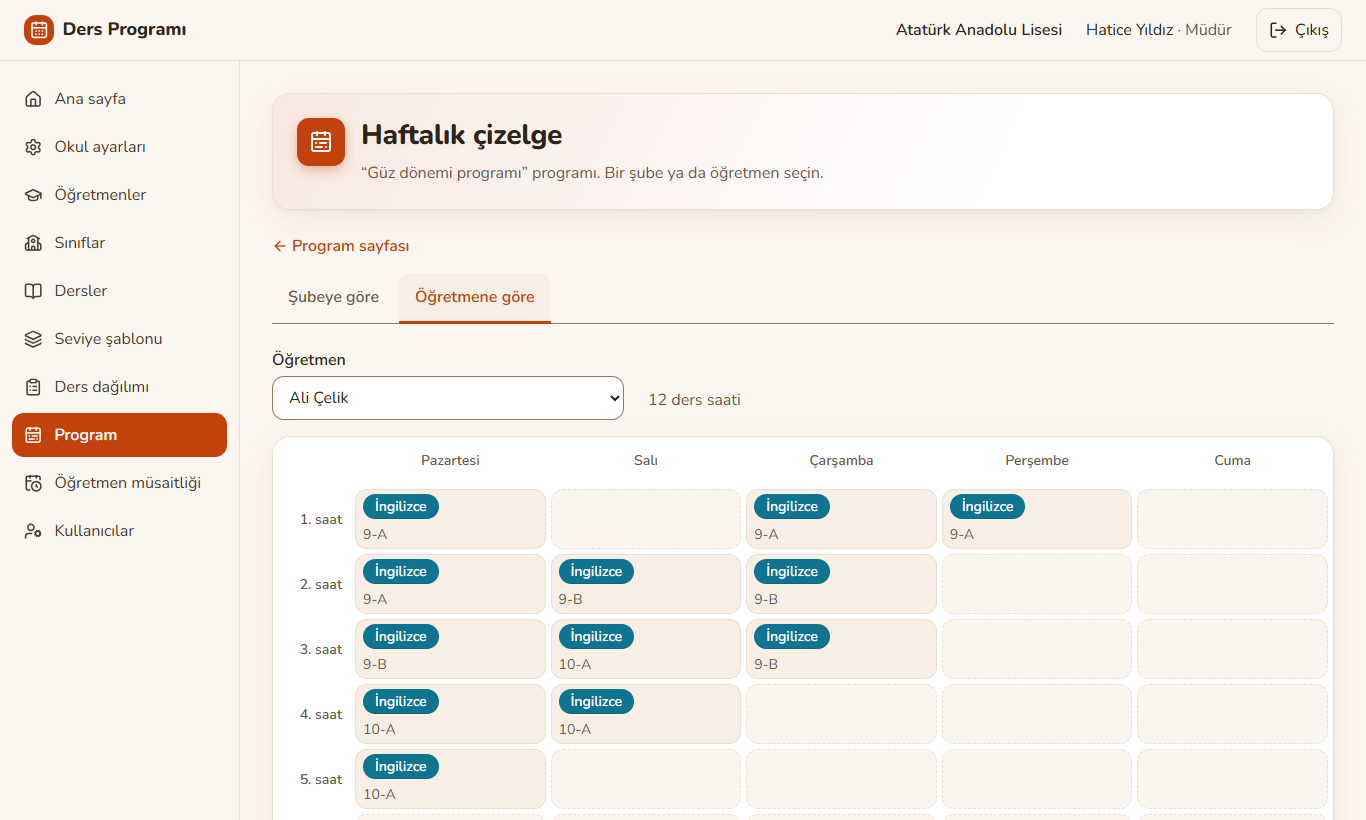
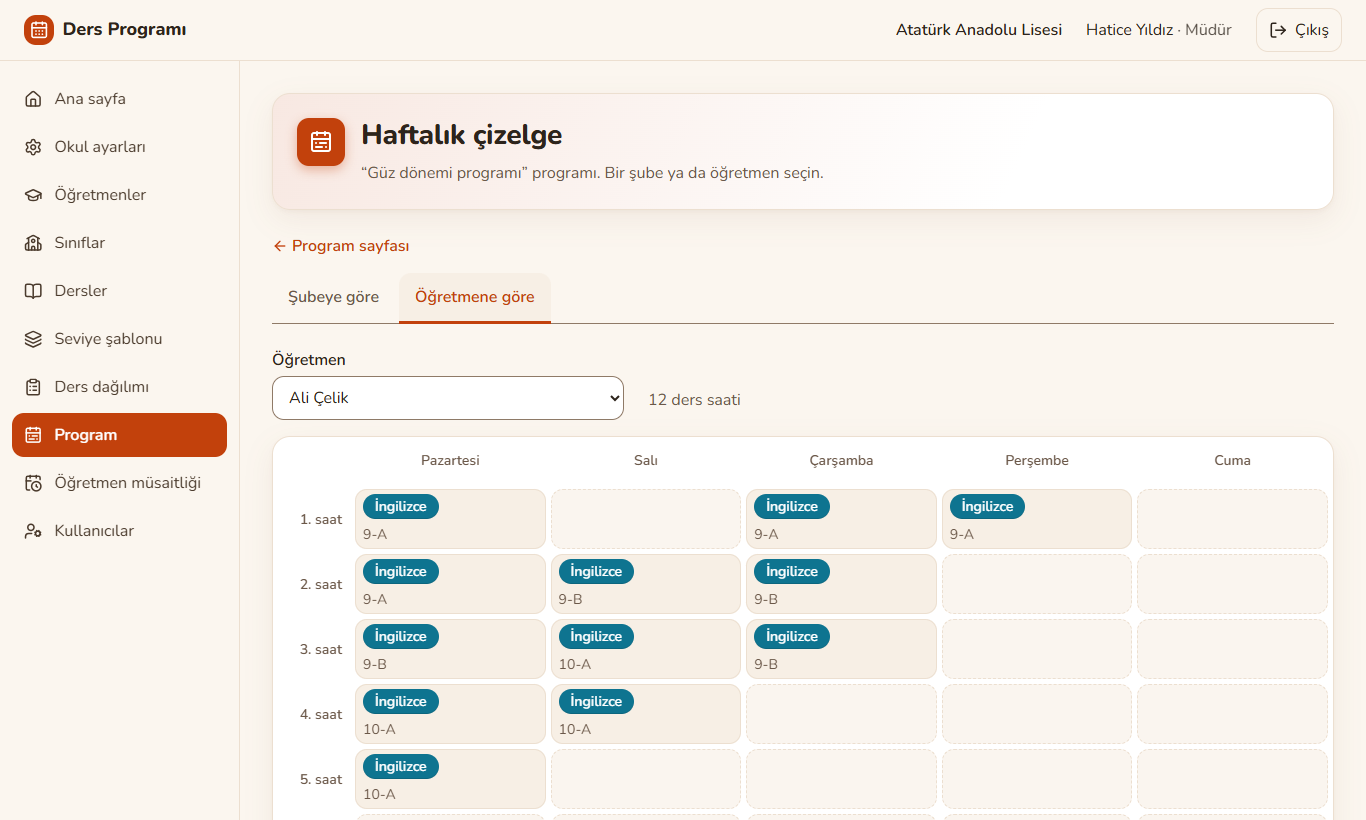
D3: sol menü masaüstünde sayfa kaydırılınca görünümde kalır (sticky)

diff --git a/web/src/cerceve/Cerceve.module.css b/web/src/cerceve/Cerceve.module.css
@@ -1,5 +1,6 @@
 /* Masaüstü: solda menü, üstte ince çubuk. Dar ekran (< 48rem): menü düğmeyle açılır. */
 .cerceve {
+  --ust-yuksekligi: 3.75rem;
   display: grid;
   /* minmax(0, 1fr): 1fr'nin alt sınırı içeriktir; geniş bir tablo içerik sütununu ve sayfayı taşırırdı. */
   grid-template-columns: var(--menu-genisligi) minmax(0, 1fr);
@@ -29,7 +30,7 @@
   align-items: center;
   gap: var(--bosluk-3);
   padding: var(--bosluk-2) var(--bosluk-5);
-  min-height: 3.75rem;
+  min-height: var(--ust-yuksekligi);
   background: var(--renk-ust-zemin);
   color: var(--renk-ust-metin);
   border-bottom: 1px solid var(--renk-kenar);
@@ -130,6 +131,12 @@
   display: flex;
   flex-direction: column;
   gap: var(--bosluk-1);
+  /* Masaüstünde sayfa kaydırılınca menü görünümde kalır. Menü sütunu (zemini, kenarı) sayfa boyu
+     uzar; yapışan yalnızca liste. Üst çubuğun altında durur; ekrandan uzunsa kendi içinde kayar. */
+  position: sticky;
+  top: calc(var(--ust-yuksekligi) + var(--bosluk-4));
+  max-height: calc(100vh - var(--ust-yuksekligi) - 2 * var(--bosluk-4));
+  overflow-y: auto;
 }
 
 .baglanti {
@@ -199,6 +206,10 @@
   }
   .menu.acik {
     display: block;
+  }
+  .menu ul {
+    position: static;
+    max-height: none;
   }
   .icerik {
     padding: var(--bosluk-4) var(--bosluk-4) var(--bosluk-6);

diff --git a/docs/arayuz-plani.md b/docs/arayuz-plani.md
@@ -326,8 +326,8 @@ Uygulama sırası (kullanıcı kararı; her alt adımın sonunda kullanıcıya s
 | K1 | Kapsam temeli (öğretmen kapsamının ders ve şube kapsamıyla çakışmaması kodda zorlanır) | Bitti |
 | D1 | Program sayfasındaki ön kontrol üretimdekiyle aynı (özel ayarlar dahil); hata varsa düğme pasif | Bitti: `GET /on-kontrol` worker'ın girdisi ve `cozucu.on_kontrol` ile; engeller ondan; test: özet temizken özel ayar hatası iki yerde aynı. K1 deneme özel ayarları geliştirme veritabanından silindi |
 | D2 | Çizelge hücrelerinde dar alanda kısa ders adı ve kısaltılmış öğretmen adı | Bitti: `useDarAlan` adın doğal genişliğini ölçer (ResizeObserver), sığmazsa kısa biçim ("TDE", "Z. Demir"); tam ad `title` ve ekran okuyucuda. Ekran: docs/ekranlar/duzeltmeler/ |
-| D3 | Sol menü masaüstünde yapışkan (sticky) | **Sıradaki** |
-| D4 | Programlar tablosu 800 px'te sığar; taşma denetimine 800 px | |
+| D3 | Sol menü masaüstünde yapışkan (sticky) | Bitti: menü listesi `position: sticky`, üst çubuğun altında; ekrandan uzunsa kendi içinde kayar; telefonda değişmedi |
+| D4 | Programlar tablosu 800 px'te sığar; taşma denetimine 800 px | **Sıradaki** |
 | D5 | Uygulamanın adı "Çizelge" | |
 | D6 | Program sayfası: hazır program öne, son başarısız deneme sade ve açılabilir | |
 | K2 + 5.5 | Öğretmene özel boş gün ve müsaitlik çizelgesi: öğretmen detay sayfası | |
